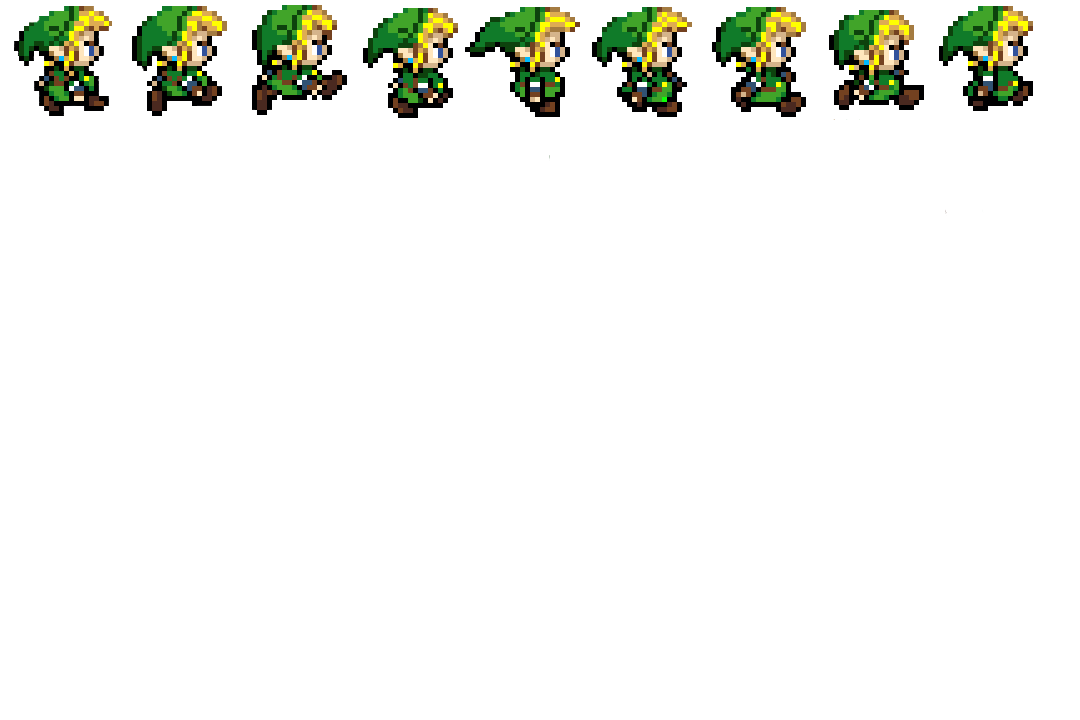
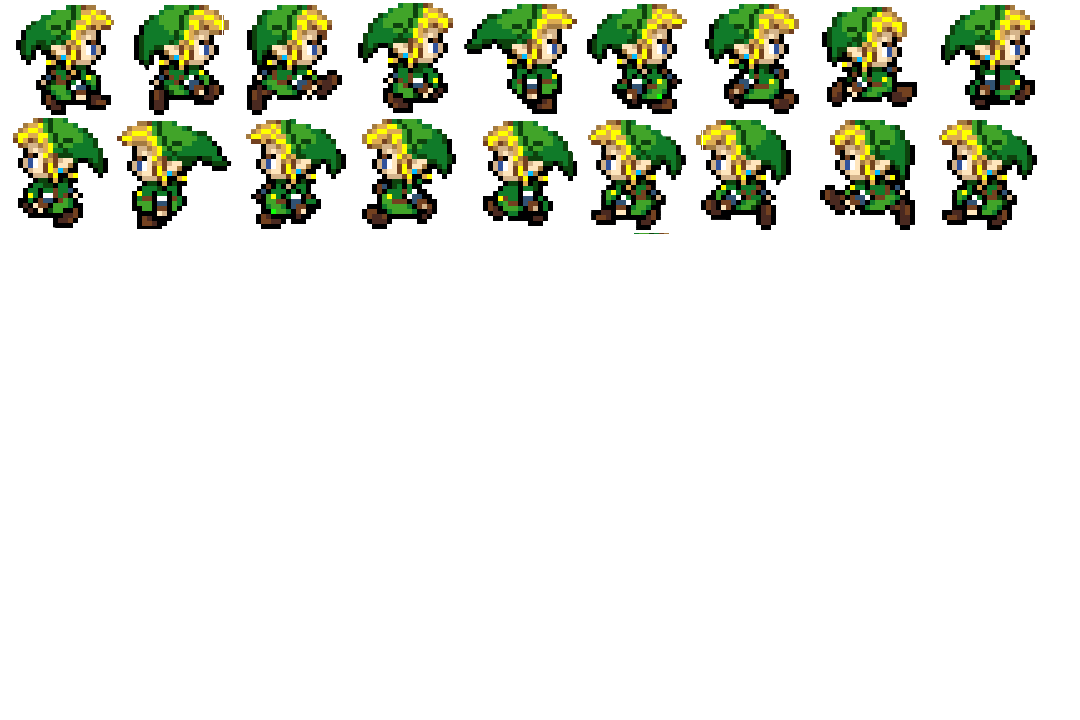
Pesonagen se movimentando para frente / trás e sprite atalizando conforme direção

Changed region(s): [[0.0, 0.0, 0.9778, 0.3361]]

diff --git a/src/graphics/Screen.java b/src/graphics/Screen.java
@@ -19,23 +19,39 @@ public class Screen extends Canvas implements Runnable{
         private int height;
         private String title;
         private JFrame jFrame;
+        private BufferStrategy bufferStrategy;
         private Graphics graphics;
         private Sprite sprite;
         private int position;
+        private int direction;
         private float frame = 0;
         private  float maxFrames = 1.5f;
         private  int animation = 0;
         private final int maxAnimation = 1044;
-
         private List<Player> players;
+        private Controller controller;
         private Game game;
-        Controller controller;
 
         public Screen (int width, int height, String title) {
             jFrame = new JFrame(title);
             this.width = width;
             this.height = height;
             this.title = title;
+            initialize();
+        }
+
+        public void initialize () {
+
+            if (isNull(players)) {
+                players = new ArrayList<>();
+                players.add(new Link("Link", 100, 70, 1));
+            }
+
+            if (isNull(controller)) controller = new Controller(players);
+
+            if (isNull(game)) game = new Game(controller, players);
+
+            this.addKeyListener(controller); // Inicializa os controles
         }
 
         public void create () {
@@ -52,33 +68,28 @@ public class Screen extends Canvas implements Runnable{
 
         public void update () {
 
-            if (isNull(players)) {
-                players = new ArrayList<>();
-                players.add(new Link("Link", 100, 70, 1));
-            }
-
-            if (isNull(controller)) controller = new Controller(players);
-
-            if (isNull(game)) game = new Game(this, controller, players);
-
             frame += 0.5f;
             if (frame > maxFrames) {
                 frame = 0;
 
                 Integer walk = game.getPlayers().get(0).walk();
 
-                if (walk == 0) animation = 464;
+                // Posiciona o sprite na posição inicial
+                if (walk == 0 && direction == 0) animation = 464;
+                if (walk == 0 && direction == 116) animation = 116;
 
                 if (walk >= 1) {
                     animation += 116;
+                    direction = 0;
                     position ++;
                 }
                 if (walk <= -1) {
-                    animation = 464;
+                    animation += 116;
+                    direction = 116;
                     position --;
                 }
 
-                if (animation == maxAnimation) {
+                if (animation == maxAnimation || animation == -maxAnimation) {
                     animation =  0;
                 }
             }
@@ -90,18 +101,18 @@ public class Screen extends Canvas implements Runnable{
         }
 
         public void render () {
-            BufferStrategy bufferStrategy = this.getBufferStrategy();
 
             if (isNull(bufferStrategy)) {
                 this.createBufferStrategy(3);
-                return;
             }
+
+            bufferStrategy = this.getBufferStrategy();
 
             if (isNull(graphics)) graphics = bufferStrategy.getDrawGraphics();
 
             if (isNull(sprite)) sprite = new Sprite("/images/link.png");
 
-            graphics.drawImage(sprite.getImageByPosition(animation,0, 116, 116), position, 300,null);
+            graphics.drawImage(sprite.getImageByPosition(animation,direction, 116, 116), position, 300,null);
 
             bufferStrategy.show();
 

diff --git a/src/controller/Controller.java b/src/controller/Controller.java
@@ -51,7 +51,7 @@ public class Controller  implements KeyListener {
 
     @Override
     public void keyReleased(KeyEvent e) {
-        x = 0; // Valor inicial que sempre iniciará
+        x = 0; // Retorna ao valor inicial
         y = 0;
         switch (e.getKeyCode()) {
             case VK_RIGHT:

diff --git a/src/entities/Game.java b/src/entities/Game.java
@@ -18,6 +18,11 @@ public class Game {
         screen.addKeyListener(controller);
     }
 
+    public Game (Controller controller, List<Player> players) {
+        this.controller = controller;
+        this.players = players;
+    }
+
     public Screen getScreen() {
         return screen;
     }

diff --git a/src/graphics/Sprite.java b/src/graphics/Sprite.java
@@ -8,7 +8,7 @@ public class Sprite {
 
     private BufferedImage bufferedImage;
 
-    protected Sprite(String path) {
+    public Sprite(String path) {
         if (bufferedImage == null)
         read(path);
     }
